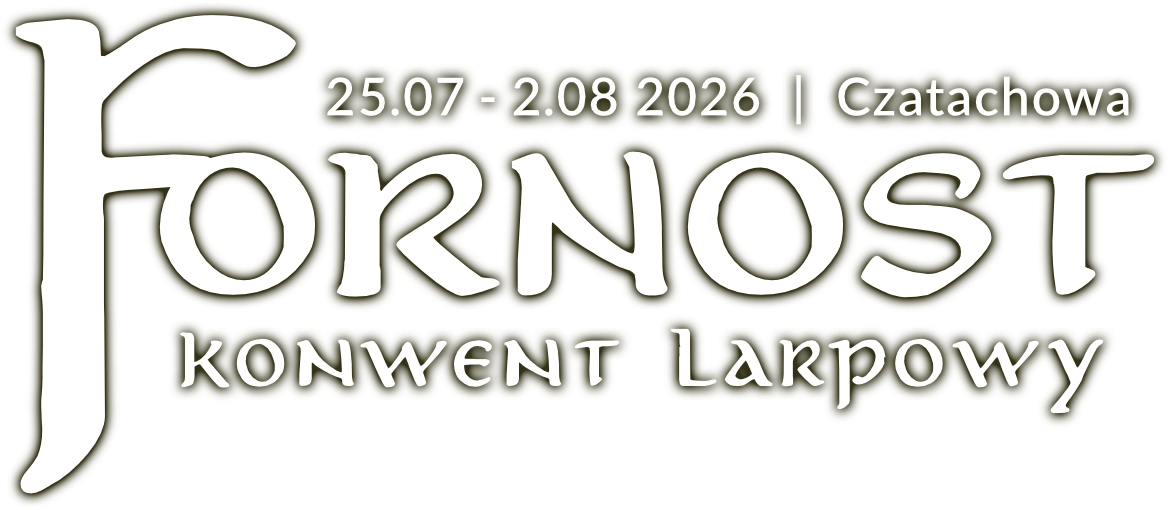
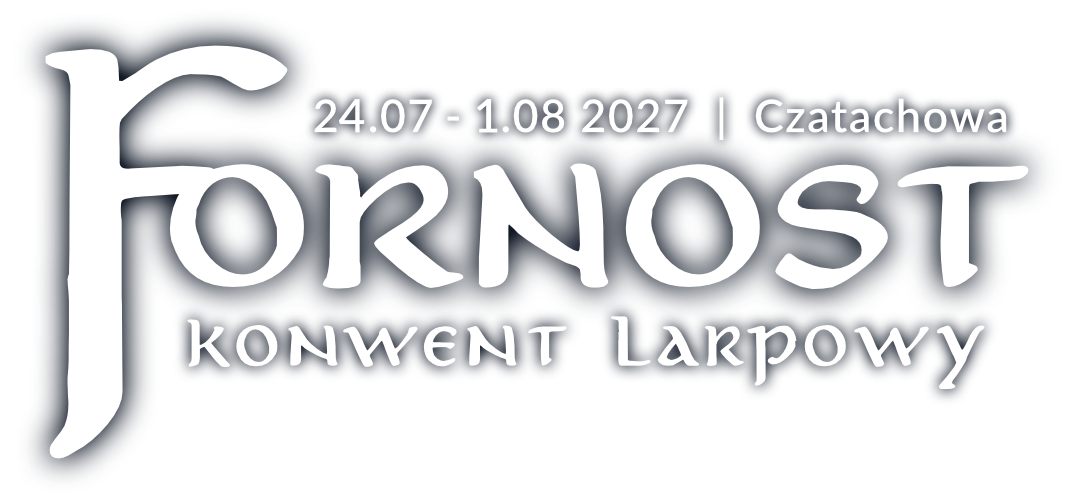
Launch 2027

diff --git a/src/pages/About.page.tsx b/src/pages/About.page.tsx
@@ -77,7 +77,7 @@ export function AboutPage() {
                         <IconCalendar size={16} />
                       </ThemeIcon>
                       <Text size="lg" fw={600} c="forestGreen.9" style={{ lineHeight: 1.2 }}>
-                        25.07 - 02.08.2026
+                        24.07 - 01.08.2027
                       </Text>
                     </Group>
 
@@ -216,11 +216,12 @@ export function AboutPage() {
                         oferujący śniadania, dania z grilla i (zamawiane dzień wcześniej) zestawy
                         obiadowe. Oprócz posiłków, Przystań Leśniów będzie mieć w swoim asortymencie
                         ciepłe i zimne napoje (zarówno alkoholowe, jak i bezalkoholowe) oraz
-                        przekąski. <br /> W czasie LARPA 'Za Garść Mithrilu' uczestników żywić
+                        przekąski. <br />
+                        {/* W czasie LARPA 'Za Garść Mithrilu' uczestników żywić
                         będzie karczma in-game prowadzona przez{' '}
                         <Anchor href={KARCZMA_URL} target="_blank" rel="noreferrer" td="underline">
                           Karczmę Bienenwald
-                        </Anchor>
+                        </Anchor> */}
                       </Text>
                     </Group>
 
@@ -285,6 +286,10 @@ export function AboutPage() {
                   <IconTicket size={20} />
                 </ThemeIcon>
                 <Text size="lg" c="etherealBlue.9" lh={1.7}>
+                  Wkrótce bilety będą dostępne do zakupu!
+                </Text>
+              </Group>
+              {/* <Text size="lg" c="etherealBlue.9" lh={1.7}>
                   Zakup biletu uprawnia do udziału w programie konwentu(Gra Główna - "Za Garść
                   Mithrilu", Warsztaty, Konkursy, Turnieje) oraz do korzystania z pola namiotowego.
                   Szczegóły dotyczące cen i opcji biletów znajdziesz w formularzu do którego link
@@ -294,7 +299,7 @@ export function AboutPage() {
 
               <Group justify="center" mt="xl">
                 <BuyButton />
-              </Group>
+              </Group> */}
             </Card>
 
             {/* Atrakcje */}

diff --git a/src/components/Hero/Hero.tsx b/src/components/Hero/Hero.tsx
@@ -1,7 +1,7 @@
 import { Button, Container, Group, Stack, Text } from '@mantine/core';
 import { useMediaQuery } from '@mantine/hooks';
-import bannerImageMobile from '../../assets/banner-pionowy-2026.jpg';
-import bannerImageDesktop from '../../assets/banner-poziomy-2026.jpg';
+import bannerImageMobile from '../../assets/baner-pionowy-2027.jpg';
+import bannerImageDesktop from '../../assets/baner-poziomy-2027.jpg';
 import napisImage from '../../assets/napis.png';
 import { BuyButton } from '../common/BuyButton';
 import { Countdown } from '../Countdown';
@@ -24,12 +24,12 @@ export function Hero() {
               <img src={napisImage} alt="Fornost - Konwent Larpowy" className={classes.logoImage} />
             </div>
 
-            <Text className={classes.tagline}>
+            <Text className={classes.tagline} size="lg">
               Tygodniowy konwent fantasy w Czatachowej (Jura Krakowsko-Chęstochowska). Larpy,
               warsztaty, konkursy i 3-dniowy LARP w świecie J.R.R. Tolkiena.
             </Text>
 
-            <Group className={classes.controls}>
+            {/* <Group className={classes.controls}>
               <BuyButton />
               <Button
                 size="lg"
@@ -45,7 +45,7 @@ export function Hero() {
               >
                 Program konwentu
               </Button>
-            </Group>
+            </Group> */}
           </Stack>
         </Container>
 

diff --git a/src/components/Navbar/Navbar.tsx b/src/components/Navbar/Navbar.tsx
@@ -3,7 +3,7 @@ import { Link, NavLink, useMatch } from 'react-router-dom';
 import { Box, Burger, Container, Group, Menu } from '@mantine/core';
 import { useDisclosure, useWindowScroll } from '@mantine/hooks';
 import logoImage from '../../assets/logo-white.png';
-import { BuyButton } from '../common/BuyButton';
+// import { BuyButton } from '../common/BuyButton'; // ukryte razem z przyciskiem "Kup bilet"
 import classes from './Navbar.module.css';
 
 interface NavLink {
@@ -32,7 +32,8 @@ const navItems: NavItem[] = [
       { link: '/regulamin', label: 'Regulamin' },
     ],
   },
-  { link: '/larp', label: 'LARP "Za Garść Mithrillu"', special: true },
+  // Ukryte do czasu ogłoszenia Gry Głównej 2027
+  // { link: '/larp', label: 'LARP "Za Garść Mithrillu"', special: true },
 ];
 
 export function Navbar() {
@@ -113,8 +114,9 @@ export function Navbar() {
         {desktopItems}
       </Group>
 
+      {/* Ukryte do czasu otwarcia sprzedaży biletów na 2027 */}
       <Group gap={5} visibleFrom="sm">
-        <BuyButton />
+        {/* <BuyButton /> */}
       </Group>
 
       {/* Mobile */}
@@ -156,11 +158,6 @@ export function Navbar() {
                 </Menu.Item>
               );
             })}
-            <Menu.Divider />
-
-            <Menu.Item>
-              <BuyButton />
-            </Menu.Item>
           </Menu.Dropdown>
         </Menu>
       </Group>

diff --git a/src/components/Hero/Hero.module.css b/src/components/Hero/Hero.module.css
@@ -50,6 +50,7 @@
 .titleWrapper {
   position: relative;
   animation: fadeInUp 0.7s ease-out both;
+  margin-left: -1rem;
 }
 
 .logoImage {
@@ -60,7 +61,7 @@
 
 .tagline {
   color: rgba(255, 255, 255, 0.9);
-  text-shadow: 0 2px 8px rgba(0, 0, 0, 0.6);
+  text-shadow: 0 2px 8px rgba(0, 0, 0, 1);
   line-height: 1.6;
   font-weight: 400;
   max-width: 650px;

diff --git a/src/components/Info/Info.tsx b/src/components/Info/Info.tsx
@@ -90,7 +90,7 @@ export function Info() {
                 Czatachowa
               </Anchor>
               <Text size="lg" fw={500} c="forestGreen.9" mb="sm" mt="sm'">
-                25.07 - 02.08.2026
+                24.07 - 01.08.2027
               </Text>
 
               <Text size="lg" c="etherealBlue.9">

diff --git a/src/components/Footer/Footer.tsx b/src/components/Footer/Footer.tsx
@@ -54,7 +54,7 @@ export function Footer() {
             Konwent Larpowy w Czatachowej
           </Text>
           <Text size="sm" c="dimmed" style={{ fontSize: 'clamp(0.75rem, 2vw, 0.875rem)' }}>
-            25.07 - 02.08.2026
+            24.07 - 01.08.2027
           </Text>
         </div>
 

diff --git a/src/components/Countdown/Countdown.tsx b/src/components/Countdown/Countdown.tsx
@@ -10,7 +10,7 @@ interface TimeLeft {
 }
 
 export function Countdown() {
-  const targetDate = new Date('2026-07-25T00:00:00').getTime();
+  const targetDate = new Date('2027-07-24T00:00:00').getTime();
 
   const calculateTimeLeft = (): TimeLeft => {
     const now = new Date().getTime();
